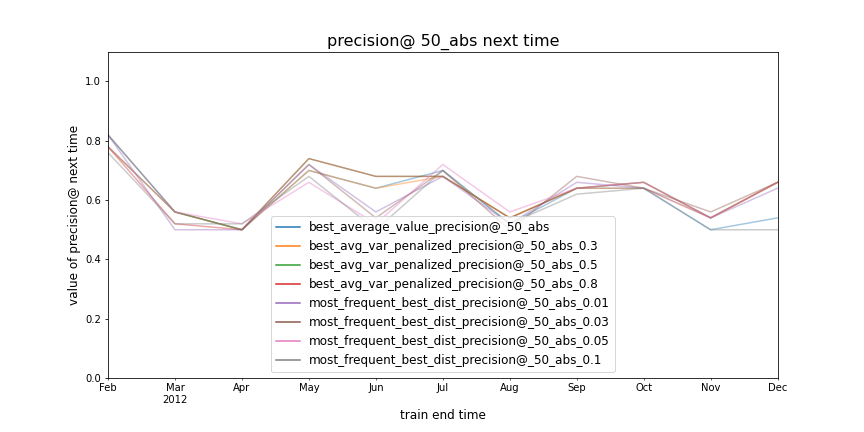
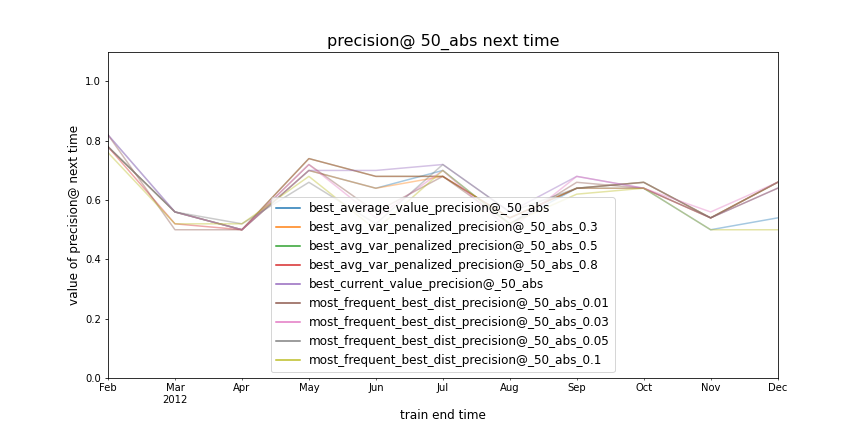
Formatting tweaks, added model selection. Updated plots.

diff --git a/donors-choose-writeup.md b/donors-choose-writeup.md
@@ -1,6 +1,6 @@
-### Introduction
+## Introduction
 
-#### DonorsChoose
+### DonorsChoose
 
 [DonorsChoose](https://www.donorschoose.org/) is a nonprofit that addresses the education funding gap through crowdfunding. Since 2000, they have facilitated $970 million in donations to 40 million students in the United States.
 
@@ -8,7 +8,7 @@ However, approximately one third of all projects posted on DonorsChoose do not r
 
 This project will help DonorsChoose shrink the education funding gap by ensuring that more projects reach their funding goals. We will create an early warning system that identifies newly-posted projects that are likely to fail to meet their funding goals, allowing DonorsChoose to target those projects with an intervention such as a donation matching grant.
 
-#### The DonorsChoose Database
+### The DonorsChoose Database
 
 The donorschoose database contains 5 tables:
 
@@ -21,27 +21,27 @@ The donorschoose database contains 5 tables:
 | **outcomes**  | Table of post-project outcomes. This table contains information that would be unavailable at time of prediction in a real-world case, so it is unused.  | projectid   | no    |
 
 
-### Initial Processing
+## Initial Processing
 
 We performed some initial processing of the source database to improve database performance and ensure compliance with Triage. These changes are stored in a copy of the source schema, called optimized.
 
-#### Renaming projectid to entity_id
+### Renaming projectid to entity_id
 
 Triage expects each feature and label row to be identified by a primary key called entity_id. For convenience, we renamed projectid (our entity primary key) to entity_id.
 
-#### Integer entity ids
+### Integer entity ids
 
 We replaced the source database's string (postgres varchar(32)) projectid key with integer keys. Triage [requires integer entityids](https://dssg.github.io/triage/experiments/cohort-labels/#note-2), and integer keys will improve performance on joins and group operations.
 
-#### Primary & Foreign Key constraints
+### Primary & Foreign Key constraints
 
 We create primary key constraints on projectid in all tables (and a foreign key constraint on donations.projectid). This improves performance by creating indexes on each of those columns.
 
-### Problem Framing
+## Problem Framing
 
 Let's start by stating our qualitative understanding of the problem. Then, we'll translate that into a formal problem framing, using the language of the Triage experiment config file.
 
-#### Qualitative Framing
+### Qualitative Framing
 
 DonorsChoose wants to institute a program where a group of projects at risk of falling short on funding are selected to recieve extra support: enrollment in a matching grant program funded by DonorsChoose's corporate partners, and prominent placement on the DonorsChoose project discovery page.
 
@@ -51,11 +51,9 @@ Once a DonorsChoose project has been posted, it can recieve donations for four m
 
 Therefore, our goal is to identify a machine learning model that identifies the 50 projects posted each month that are most likely to fail to reach their funding goal by four months later.
 
-#### Triage Framing
+### Triage Framing
 
-We can define our problem framing in a single [experiment config file](https://github.com/dssg/triage/blob/master/example/config/experiment.yaml).
-
-##### Start and End Times
+#### Temporal Config
 
 For this project. we're using data from the projects posted between September 1, 2011 and June 1, 2013. 
 
@@ -66,29 +64,24 @@ label_start_time: '2011-09-01'
 feature_end_time: '2013-06-01'
 label_end_time: '2013-06-01'
 ```
-##### Model update frequency
 
 Each month, the previous month's data becomes availabe for training a new model. 
 
 `model_update_frequency: '1month'`
 
-##### as_of_date frequencies
 
 > ask about this. Still don't quite understand the justification. Seems like 1 day is just the default value. But how to explain to audience?
 
-##### Test duration
 
 Our model will make predictions once a month, on the previous month's unlabeled data. Our one month test set length reflects this.
 
 `test_durations:['1month']`
 
-##### Training history
 
 Patterns in the DonorsChoose data can change significantly within a year. We use one-month training sets ensuring that our models are trained on recent data, and capture recent trends.
 
 `max_training_histories: ['1month']`
 
-##### Label Timespan
 
 A project's label can only be measured four months after it has been posting. This means that each project has a four month label timespan.
 
@@ -97,9 +90,13 @@ training_label_timespans: ['4month']
 test_label_timespans: ['4month']
 ```
 
-This temporal config produces 
+Here's our temporal config in a timechop diagram:
 
-##### Outcome
+![timechop](triage_output/timechop.png)
+
+Triage builds a 13th train/test set with data from just a few as_of_dates in September 2011 - we'll ignore models from that set in model selection.
+
+#### Outcome
 
 Under our framing, each project can have one of two outcomes:
 
@@ -129,11 +126,11 @@ RIGHT JOIN donation_totals using(entity_id)
 ```
 unsure if I should put the query here? do I need to repeat this (and other config parameters) since they're also in the config file?
 
-##### Metric
+#### Metric
 
 Since our intervention is resource-constrained and limited to 50 projects each month, we are concerned with minimizing false positives. We optimize our models for precision at top 50.
 
-### Feature Generation
+## Feature Generation
 
 We implement two categories of features. The first are features that we read directly from the database, raw, or with only transformations. These include project metadata such as teacher and student demographic information, category and price of requested resource, essay length, and other variables.
 
@@ -147,3 +144,28 @@ These aggregations would be too complex to perform with Triage's feature aggrega
 
 The DDL statements that create these features are stored in [precompute_queries](precompute_queries)
 
+## Model Selection
+
+We use Auditioner to manage model selection. Plotting precision@50_abs over time shows that our models are generally performing well. Performance ranges from ~0.5 to 0.8, well above the prior rate of ~0.3.
+
+![precision@50_over_time](triage_output/metric_over_time_precision@50_abs.png)
+
+Building a basic Auditioner model selection grid, it looks like variance-penalized average precision (penalty = 0.5) and best current precision minimize regret.
+
+|Criteria|Average regret (precision @ 50_abs)|
+|-|-|
+|Variance-penalized average precision (0.5)|0.0819|
+|Best current precision | 0.0789|
+|Most frequently within .03 of best | 0.0909|
+
+![regret_over_time](triage_output/regret_over_time_precision@50_abs.png)
+
+Variance-penalized average precision seems like a safe choice. It performs only slightly worse than the best criteria, and allows us to ignore models that perform inconsistently.
+
+This criteria selects three random forest model groups for the next period:
+
+|                                         | max_depth | max_features | n_estimators | min_samples_split |
+|-----------------------------------------|-----------|--------------|--------------|-------------------|
+| RandomForestClassifier | 10        | 12           | 10000        | 50                |
+| RandomForestClassifier | 10        | auto         | 5000         | 25                |
+| RandomForestClassifier | 10        | log2         | 1000         | 25                |
